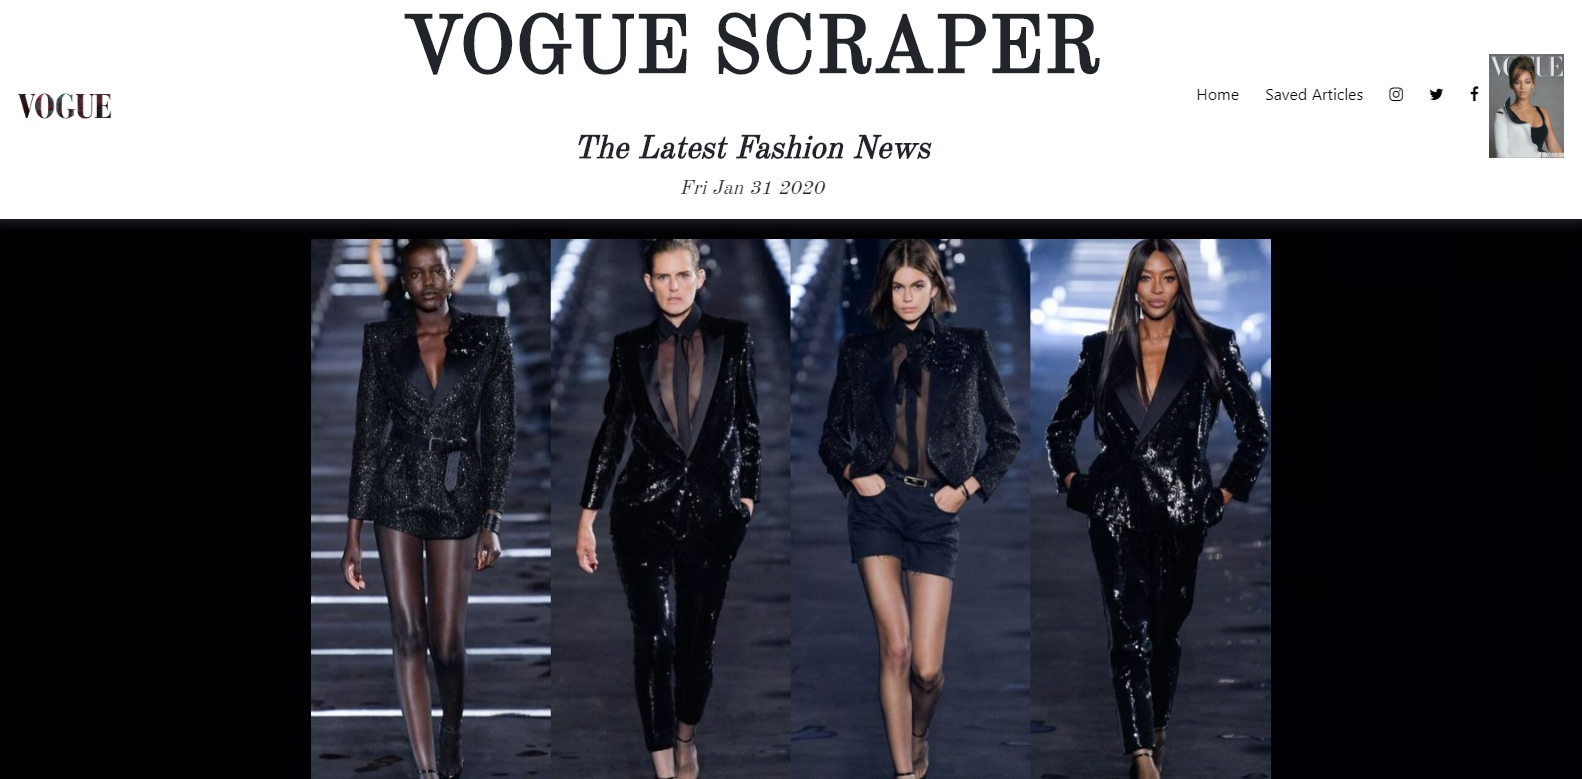
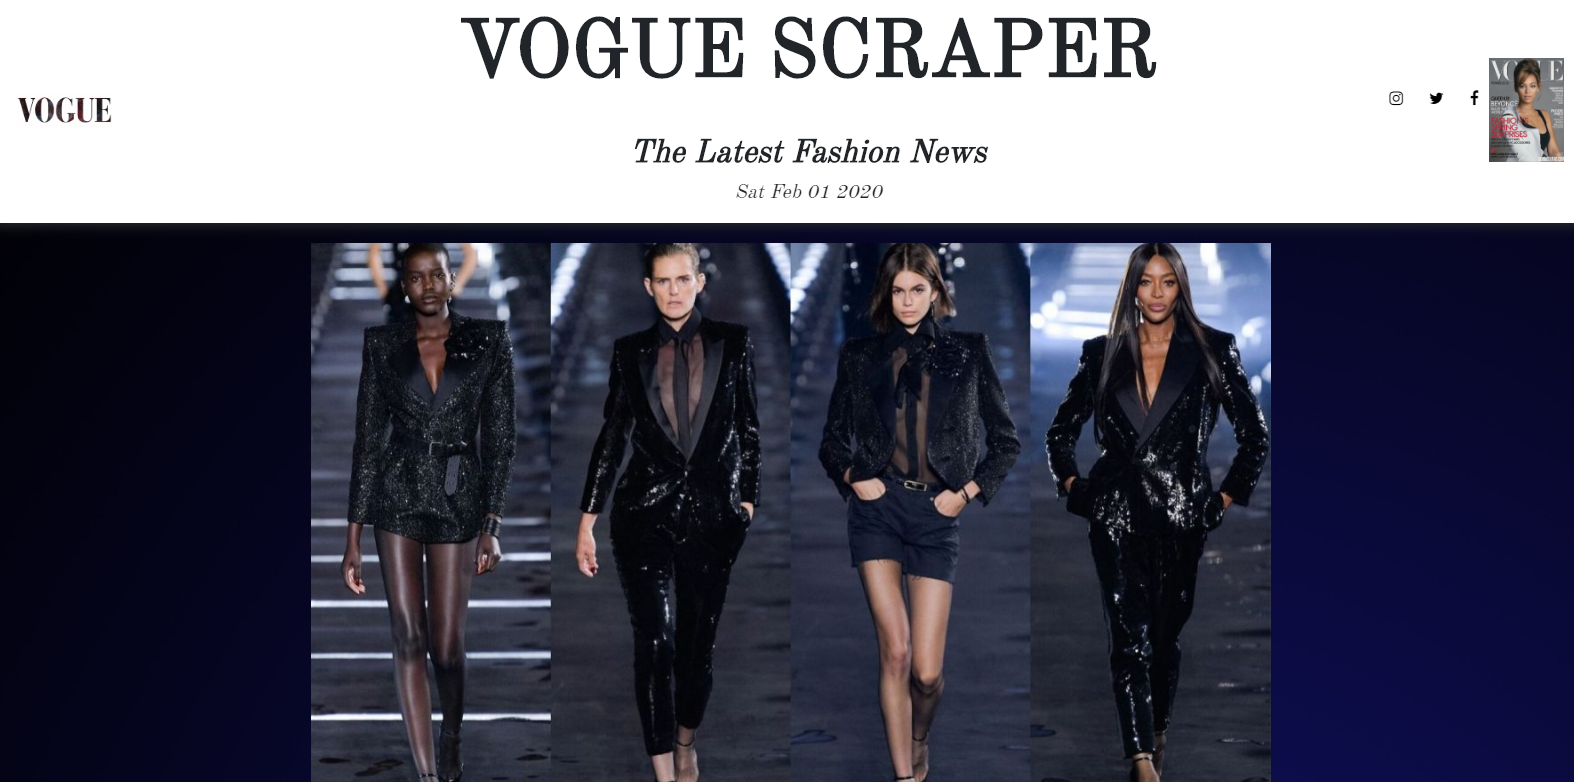
adding images to ReadMe

diff --git a/public/index.html b/public/index.html
@@ -63,8 +63,8 @@
                 </ul>
 
                 <span class="navbar-text">
-                    <a class="nav-link" class="nav-item" id="home-nav" href="/">Home <span
-                            class="sr-only">(current)</span></a>
+                    <!-- <a class="nav-link" class="nav-item" id="home-nav" href="/">Home <span
+                            class="sr-only">(current)</span></a> -->
                     <!-- <a class="nav-link" class="nav-item" href="/savedArticles">Saved Articles</a> -->
                     <a class="nav-link" href="https://www.instagram.com/vogue/?hl=en" target='blank'><i
                             class="fa fa-instagram"></i></a>

diff --git a/public/css/index.css b/public/css/index.css
@@ -15,7 +15,7 @@ h2 {
     font-family: 'Old Standard TT', serif;
     font-weight: bold;
     text-align: center;
-    margin-left: 155px;
+    margin-left: 115px;
 }
 
 h1 {
@@ -30,7 +30,7 @@ h5 {
     font-family: 'Old Standard TT', serif;
     text-align: center;
     font-style: italic;
-    margin-left: 155px;
+    margin-left: 115px;
 }
 
 p {

diff --git a/README.md b/README.md
@@ -2,7 +2,7 @@
 # Vogue Scraper - The Latest Fashion News
 
 ## Description
-Whenever a user visits the Vogue Scraper site, the app scrapes stories from Vogue and displays them for the user. Each scraped article is saved to my MongoDB. My app scrapes and displays the following information for each article:
+Whenever a user visits the Vogue Scraper site, the app scrapes stories from vogue.com and displays them for the user. Each scraped article is saved to my MongoDB. My app scrapes and displays the following information for each article:
 
 
 * Headline - the title of the article
@@ -27,3 +27,14 @@ Click on the below link to view my Vogue Scraper App.
 
 
 ## My Screenshots
+
+
+![My Vogue Scraper home page screenshot](/public/images/cover-page-readme.png)
+
+
+
+![My Vogue Scraper home page with articles screenshot](/public/images/readme-article-images.png)
+
+
+
+
